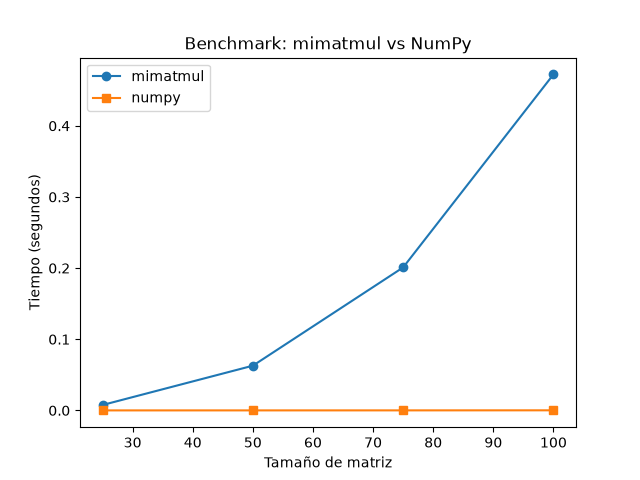
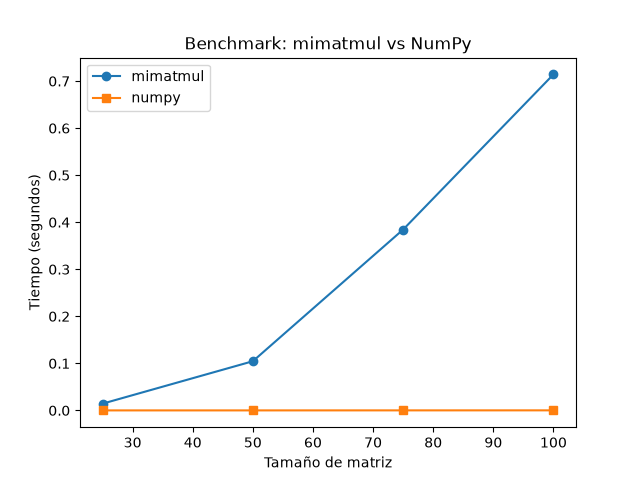
Completa benchmark y revision final

diff --git a/README.md b/README.md
@@ -91,7 +91,10 @@ mientras que NumPy es mucho más rápido.
 
 ## Observaciones de rendimiento
 
-Mediciones reales obtenidas durante una ejecución extendida de ambos métodos:
+Los valores siguientes provienen de ejecuciones extendidas de ambos métodos,
+realizadas específicamente para observar CPU, memoria y GPU en el Administrador de
+tareas. Son mediciones separadas del benchmark definitivo de tamaños 25, 50, 75
+y 100, cuyos resultados están en `data/benchmark_results.csv`:
 
 - `mimatmul`, n=250, 4 repeticiones: 38.267 s
 - CPU observada de `mimatmul`: aproximadamente 22 %
